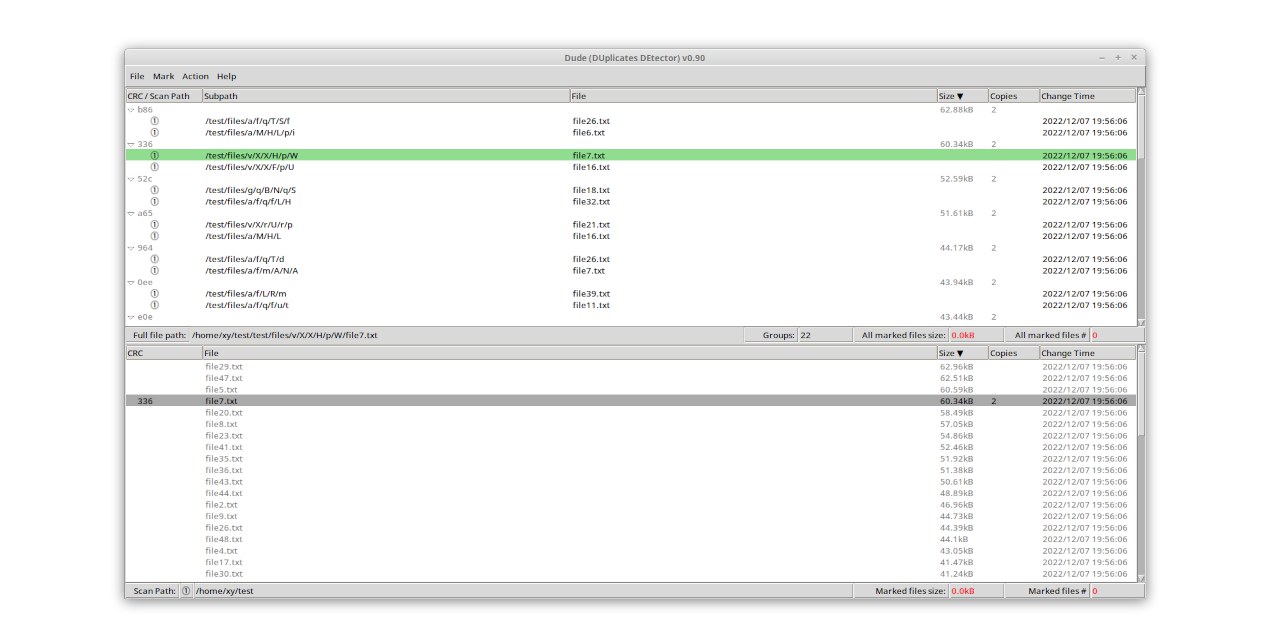
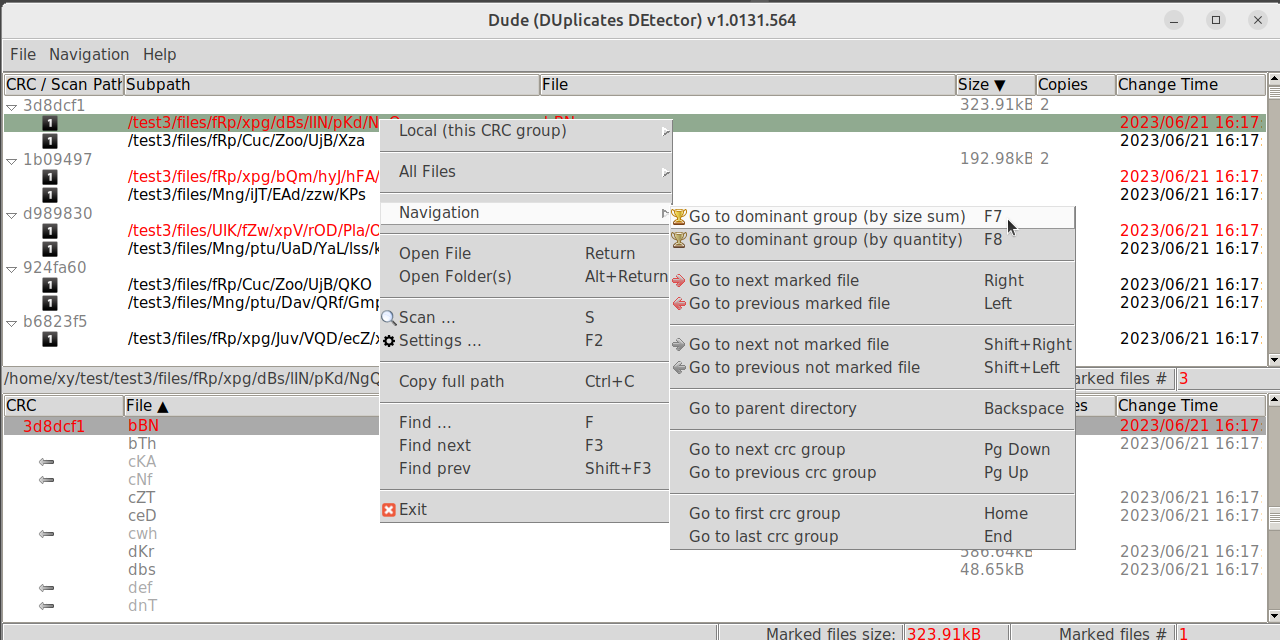
info update [skip ci]

diff --git a/README.md b/README.md
@@ -8,15 +8,18 @@ GUI utility for finding duplicated files, delete or link them to save space.
   - duplicates groups
   - directory of selected file
 - Two stage processing
-  - marking of files with multiple criteria
-  - taking action on marked files
-- Command Line parameters for integration with favorite file manager (e.g. Double Commander)
+  - interactive marking of files with multiple criteria
+  - taking action on marked files (Move to Trash/Recycle Bin, delete, hard-link or soft-link)
+- Command Line parameters for integration with favorite file manager (e.g. Double Commander) and immediate start of scanning
 
 ## Why another anti-duplicate application ?
 - Because you need to see the context of removed files, and use such application clearly,safely and easily.
 
-## Dude GUI (gif not up to date):
+## Dude GUI
+#### usage example:
 ![image info](./info/dude.gif)
+#### settings  dialog:
+![image info](./info/settings.png)
 
 ## Download:
 The portable executable for Linux and   Windows can be downloaded from the Releases site:
@@ -24,9 +27,12 @@ The portable executable for Linux and   Windows can be downloaded from the Relea
 https://github.com/PJDude/dude/releases   
 
 main distributions:  
+
 **dude.**{version}**.portable.linux.tgz**  
 **dude.**{version}**.portable.windows.zip**  
-contain portable executables with necessary libraries made by [PyInstaller](https://pyinstaller.org/en/stable). Files with **.onefile** postfix contain self-extracting single-file distributions. They are more handy but start a little slower than main distributions (need of unpacking to temporary folder).Onefile distribution also may cause more false positive anti virus alerts (see below). **auxiliary** distributions are made by [Nuitka](https://github.com/Nuitka/Nuitka) for test purposes and may be nonoperational at current stage.
+contain portable executables with necessary libraries made by [PyInstaller](https://pyinstaller.org/en/stable). Files with **.onefile** postfix contain self-extracting single-file distributions. They are more handy but start a little slower than main distributions (need of unpacking to temporary folder). Onefile distribution also may cause more false positive anti virus alerts (see below).
+
+**auxiliary** distributions contain compiled executable binaries made by [Nuitka](https://github.com/Nuitka/Nuitka). At current stage no significant performance gain is observed with comparison to main distribution (interfacing with Tkinter is probably a bottleneck).
 
 
 ## SOFTPEDIA review:
@@ -44,7 +50,7 @@ https://www.majorgeeks.com/files/details/dude_(duplicates_detector).html
 - Use keyboard shortcuts. All are described in the context menus of the main panels. As a general rule, actions with **Ctrl** key apply to all files/groups, without **Ctrl** work locally. Start by utilizing just **Tab**, **arrows**, **F5**, **space**, and **Delete**.
 - Sometimes it is more efficient to operate on entire folders than on CRC groups, so don't ignore lower panel, use **Tab** and **F5** (**F6**)
 - Narrow down the scanning area, exclude from scanning unnecessary folders (e.g. Windows system folder which is full of duplicates), you can always add multiple (up to 8) independent scan paths
-- Unzip the portable executable somewhere on your **PATH**, than **dude** command will be available everywhere
+- Modify on your **PATH** environmental variable to to point to the **Dude** binary for more convenient and faster command line operation
 - The performance of the scanning process (or of any other software that requires frequent or extensive access to files in general) may be degraded by the **atime** attribute of the scanned file system. Disabling it on Linux file systems may be done usually by applying the **noatime** attribute in **fstab**, on Windows/NTFS it is the **disablelastaccess** option available with the **fsutil** command or by modifying the registry.
 
 ## Supported platforms:
@@ -76,13 +82,14 @@ dude --help
 
 ## Technical information
 - Scanning process analyzes selected paths and groups files with the same size. **Dude** compare files by calculated **SHA1** hash of file content. CRC calculation is done in separate threads for every identified device (drive). Number of active threads is limited by available CPU cores. Aborting of CRC calculation gives only partial results - not all files may be identified as duplicates. Restarted scanning process will use cached data. The CRC is always calculated based on the entire contents of the file.
-- scanning (CRC calculation to be precise) is done in **specific order**, that try to identify duplicates in most promising folders. In case of huge filesystems, when scan is aborted, partial results are more useful then. Its is possible to change order of scanning to simple order from the largest files to the smallest files by command line or gui option.
+- scanning (CRC calculation to be precise) is done in **specific order**, that try to identify duplicates in folders with biggest potential duplicates. In case of huge filesystems, when scan is aborted, partial results are more useful then.
 - Calculated CRC is stored in **internal cache** which allows re-use it in future operation and speedup of searching of duplicates (e.g. with different set of search paths). Key of cache database is pair of inode of file and file modification time stored separately for every device-id, so any file modification or displacement will result in invalidation of obsolete data and recalculation of CRC.
-- Marking files does not cause any filesystem change. Any file deletion or linking needs confirmation and is logged.
+- Scanning or marking files does not cause any filesystem change. Any file deletion or linking needs confirmation and is logged.
 - Just before files processing, state of files (ctime) is compared with stored data. In case of inconsistency (state of files was changed somehow during operation between scanning/CRC calculation and files processing) action is aborted and data invalidated.
-- **Dude** is written in **python3** with **Tkinter** and packed with [PyInstaller](https://pyinstaller.org/en/stable) to portable distribution. Auxiliary distro is packed by **[Nuitka](https://github.com/Nuitka/Nuitka). GitHub build for linux platform is done in **ubuntu-20.04** container. In case of **glibc** incompatibility it is always possible to build Your own binary (**pyinstaller.run.sh**) or run python script (**dude.py**)
-- **Dude** for windows hides the console when starting the GUI. To keep the console untouched, use the --nohide parameter.
-- **Dude** Windows distribution causes some anti-virus false positives. The problem is well known for both PyInstaller and Nuitka.
+- **Dude** is written in **python3** with **Tkinter** and packed with [PyInstaller](https://pyinstaller.org/en/stable) to portable distribution. Auxiliary distro is packed by **[Nuitka](https://github.com/Nuitka/Nuitka)**. GitHub release build for linux platform is done in **ubuntu-20.04** container. In case of **glibc** incompatibility it is always possible to build Your own binary (**pyinstaller.run.sh**) or run python script (**dude.py**)
+- **Dude** for **windows** is build as two binary executables: **dude.exe** and **dudecmd.exe**. They should be saved in the same path. **dudecmd.exe** is basically only to respond to the console to --help parameter or for passing command line parameters (if correct) to **dude.exe**. **dude.exe** will also accept parameters but will not respond to the console. **dudecmd.exe** will leave windows command line window open for time of operation.
+
+- **Dude** Windows distribution causes some anti-virus false positives. The problem is well known for both [PyInstaller](https://pyinstaller.org/en/stable) and **[Nuitka](https://github.com/Nuitka/Nuitka)** especially for **onefile** distributions.
 - ***Soft links*** to **directories** are skipped during the scanning process. ***Soft links*** to **files** are ignored during scanning. Both appear in the bottom "folders" pane.
 - ***Hard links*** (files with stat.st_nlink>1) currently are ignored during the scanning process and will not be identified as duplicates (within the same inode obviously, as with other inodes). No action can be performed on them. They will only appear in the bottom "folders" pane. This may change in the future versions.
 - the "delete" action moves files to **Recycle Bin / Trash** or deletes them permanently according to option settings.
